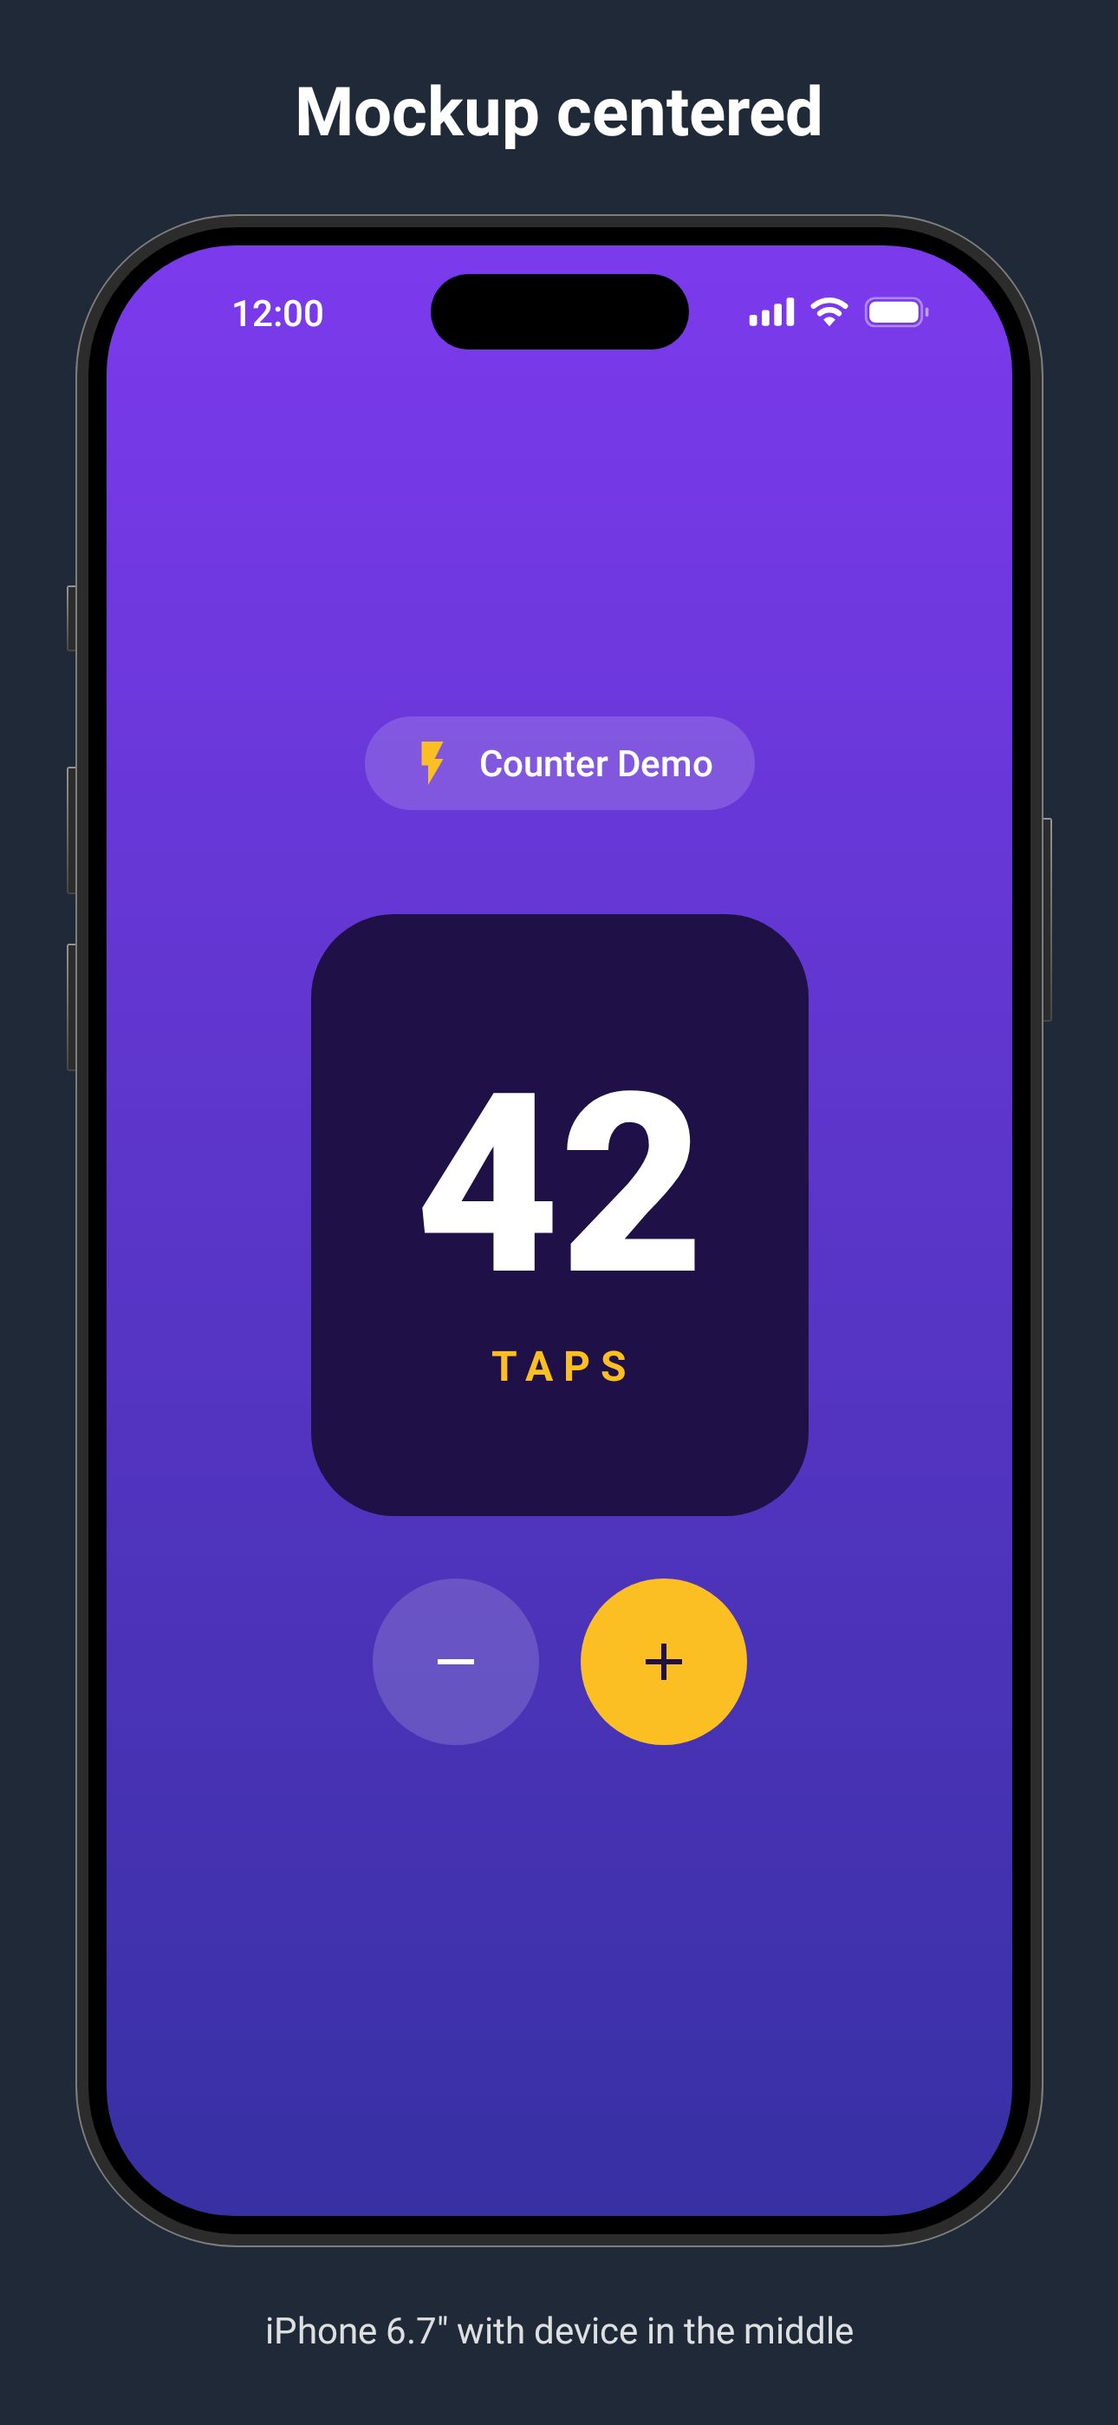
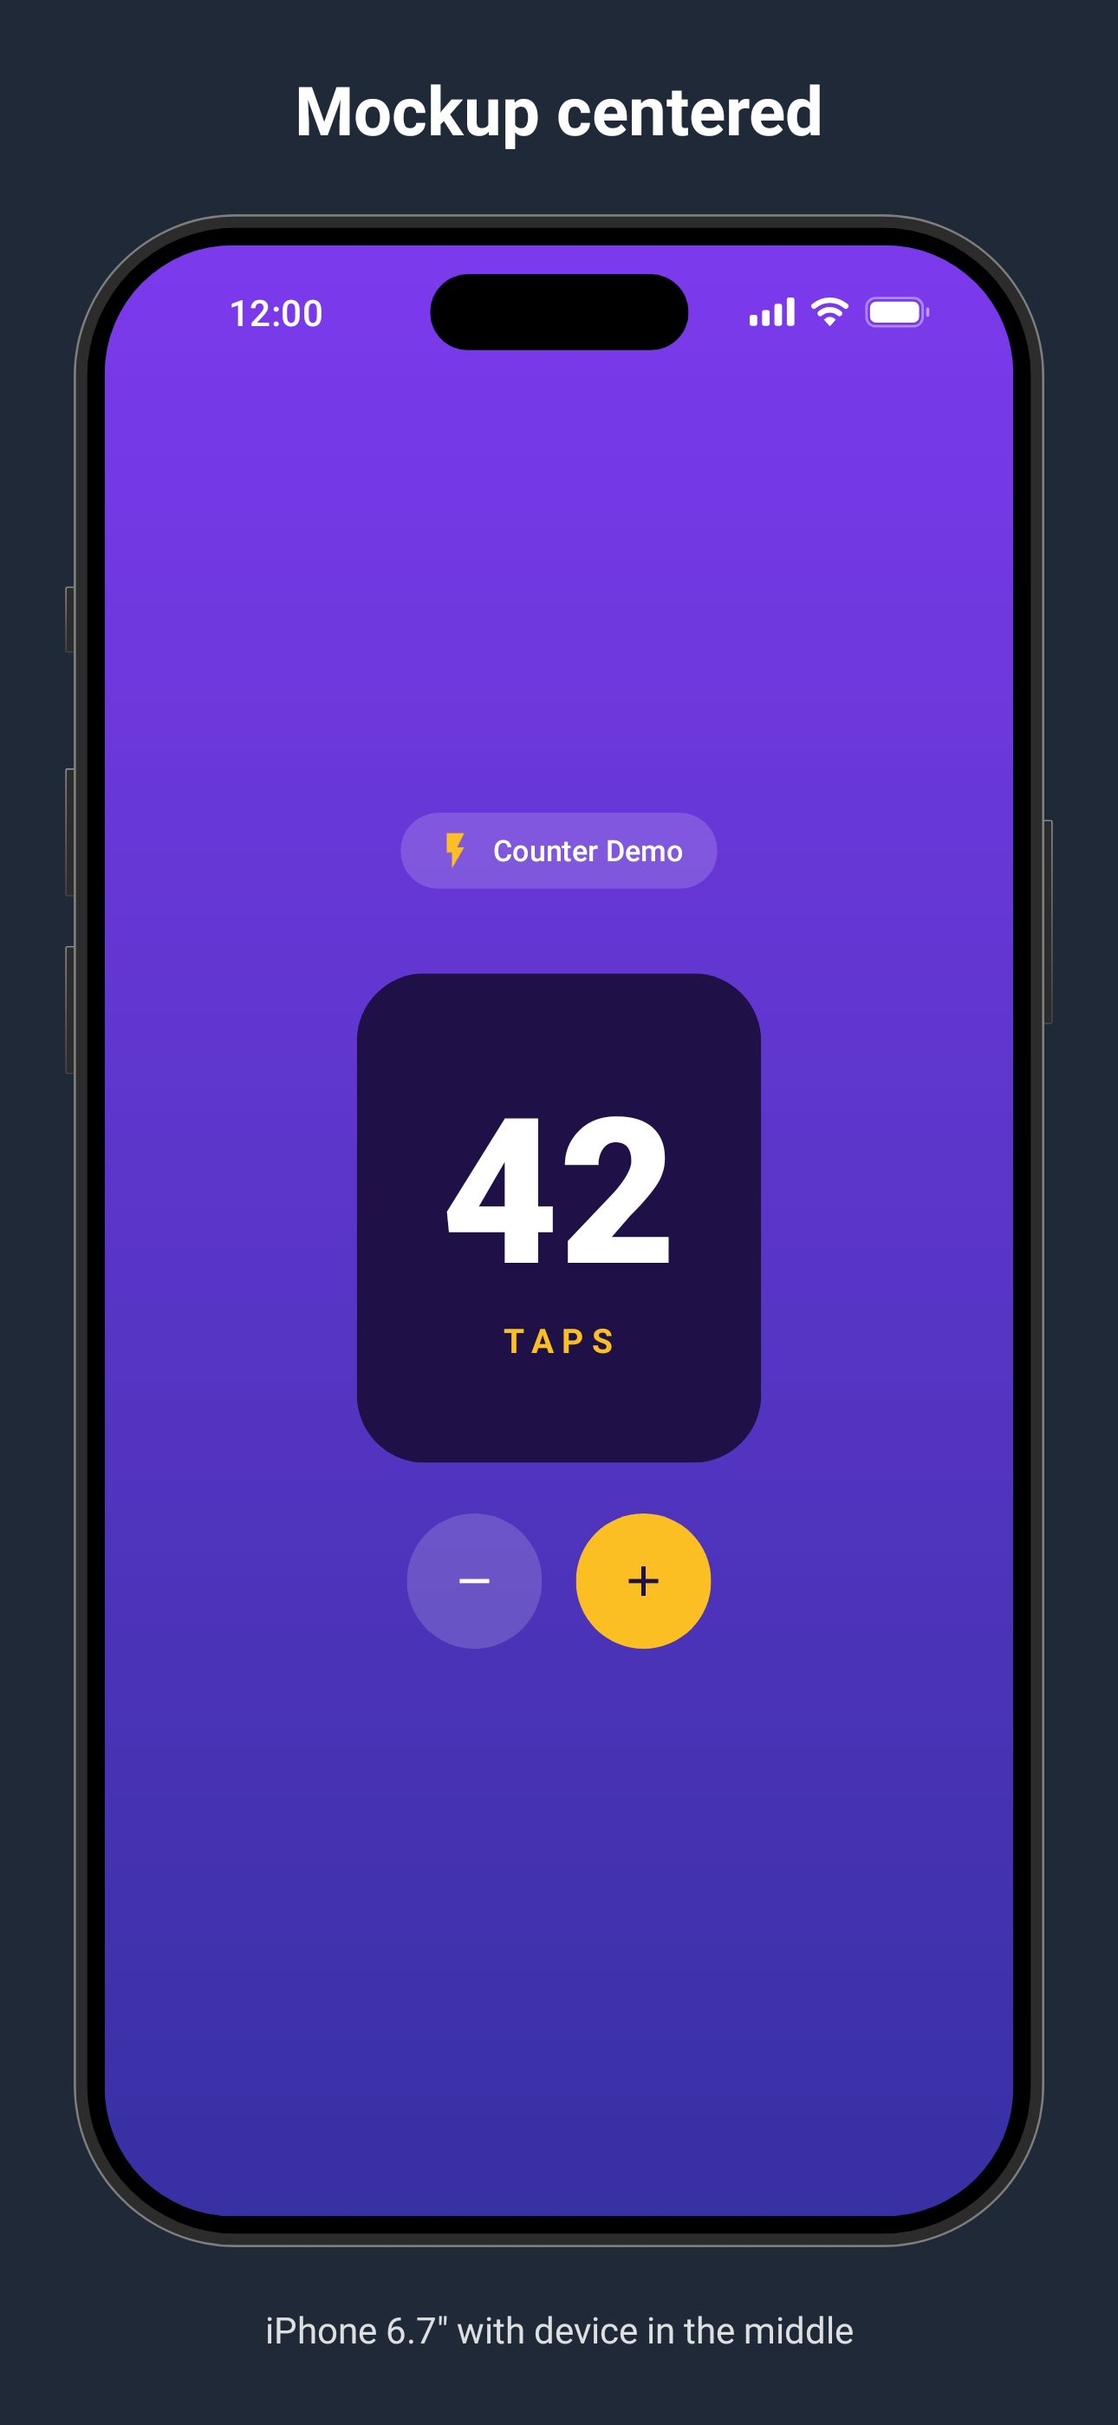
Measure Apple frame content at the slot's logical size (#21)
PhoneFrame has measured its content at a real device's 411x822dp and scaled
the mockup since 1.5.5, and DeviceMockup gives every form factor the same
contract. The Apple frames never got it: AppleFrame and AppleIPadFrame placed
content straight into the bezel's on-canvas footprint, so the banner's padding
and the bezel each took their cut of the slot's width before the app saw any
of it. A 6.5" screenshot measured its app at ~348dp instead of the 428dp its
canvas qualifiers promise — every sp and dp rendered ~20% larger than on a
real device, and width-sensitive layouts moved: the symptom that surfaced this
was a search field's placeholder folding onto two lines in a store listing,
on a screen that renders one line on every real iPhone.

Both frames now do what PhoneFrame does: measure content at the slot's
logical size — 428x926 and 430x932 for the iPhones, 1024x1366 for the iPad —
inside the device environment, and scale the whole mockup into the room the
banner leaves. FormFactor gains an internal logicalSize derived from the same
qualifiers the canvas renders under, so the Configuration, the WindowInfo and
the resource buckets all name one device. AppleFrame takes the slot as a
parameter since the two iPhone shelves differ; the dispatchers pass it.

AppleFrameEnvironmentTest pins the contract for all three slots by asserting
exact equality on both locals a screen can ask. The example screenshots move
[…]

Changed region(s): [[0.2791, 0.28, 0.7442, 0.7468], [0.062, 0.1245, 0.124, 0.9024], [0.2171, 0.1245, 0.2791, 0.1556]]

diff --git a/library/src/main/kotlin/dev/lucianosantos/storescreenshots/frames/AppleFrame.kt b/library/src/main/kotlin/dev/lucianosantos/storescreenshots/frames/AppleFrame.kt
@@ -1,14 +1,17 @@
 package dev.lucianosantos.storescreenshots.frames
 
 import androidx.compose.foundation.layout.ColumnScope
-import androidx.compose.foundation.layout.aspectRatio
-import androidx.compose.foundation.layout.fillMaxHeight
+import androidx.compose.foundation.layout.fillMaxSize
 import androidx.compose.runtime.Composable
 import androidx.compose.ui.Modifier
 import androidx.compose.ui.graphics.Color
 import androidx.compose.ui.unit.dp
 import androidx.compose.ui.unit.sp
+import dev.lucianosantos.storescreenshots.FormFactor
+import dev.lucianosantos.storescreenshots.ProvideDeviceEnvironment
+import dev.lucianosantos.storescreenshots.ScaledMockup
 import dev.lucianosantos.storescreenshots.ScreenshotStyle
+import dev.lucianosantos.storescreenshots.iPhoneBodySize
 
 /** Width-to-height ratio of the default [AppleFrame] device's enclosure. */
 val AppleIPhoneAspectRatio: Float = AppleIPhoneModel.IPhone17ProMax.aspectRatio
@@ -19,6 +22,13 @@ val AppleIPhoneAspectRatio: Float = AppleIPhoneModel.IPhone17ProMax.aspectRatio
  * The mockup is a scale model of [device] as the Simulator draws it — machined rail, black bezel,
  * rounded display, side buttons, Dynamic Island, and an iOS status bar rather than a Material one,
  * which App Store Review guideline 2.3.10 rejects.
+ *
+ * [content] is measured at [formFactor]'s logical size — the dp rectangle the slot's qualifiers
+ * name, 428x926 for the 6.5" slot and 430x932 for the 6.7" — and the whole mockup is then scaled
+ * uniformly into the room the banner leaves, exactly the way [PhoneFrame]'s content is measured at
+ * a real phone's 411x822dp. The screen inside the frame therefore lays out at real-device
+ * proportions however small the banner draws the device, instead of being measured at whatever dp
+ * the bezel's footprint happens to span on the canvas.
  *
  * [device] defaults to the iPhone 17 Pro Max, which is what both App Store iPhone slots are sized
  * for and what a reviewer expects a current submission to depict. [aspectRatio] is the aspect ratio
@@ -31,10 +41,14 @@ fun AppleFrame(
     backgroundColor: Color,
     contentColor: Color = Color.White,
     style: ScreenshotStyle = ScreenshotStyle(),
+    formFactor: FormFactor = FormFactor.AppleIPhone67,
     device: AppleIPhoneModel = AppleIPhoneModel.IPhone17ProMax,
     aspectRatio: Float = device.aspectRatio,
     content: @Composable () -> Unit,
 ) {
+    require(formFactor == FormFactor.AppleIPhone65 || formFactor == FormFactor.AppleIPhone67) {
+        "AppleFrame draws the App Store iPhone slots; $formFactor is not one."
+    }
     FramedLayout(
         title = title,
         description = description,
@@ -48,7 +62,7 @@ fun AppleFrame(
         titleFontSize = 26.sp,
         descriptionFontSize = 14.sp,
         mockup = { externalModifier ->
-            IPhoneMockup(externalModifier, style, aspectRatio, device, content)
+            IPhoneMockup(externalModifier, style, formFactor, device, aspectRatio, content)
         }
     )
 }
@@ -57,20 +71,32 @@ fun AppleFrame(
 private fun ColumnScope.IPhoneMockup(
     externalModifier: Modifier,
     style: ScreenshotStyle,
-    aspectRatio: Float,
+    formFactor: FormFactor,
     device: AppleIPhoneModel,
+    aspectRatio: Float,
     content: @Composable () -> Unit,
 ) {
-    IPhoneBezel(
-        modifier = externalModifier
-            .fillMaxHeight()
-            .aspectRatio(aspectRatio),
-        showStatusBar = style.showStatusBar,
-        clock = style.statusBarClock,
-        statusBarContentDark = style.statusBarContentDark,
-        edgeToEdge = style.edgeToEdge,
-        metrics = device.metrics,
-        elevation = style.mockupElevation,
-        content = content,
-    )
+    // The slot's logical screen, and the body that display sits in at the device's proportions.
+    val logical = formFactor.logicalSize
+    val (bodyWidth, nativeBodyHeight) = iPhoneBodySize(device, logical.width, logical.height)
+    // An overridden ratio reshapes the body it is documented to describe; the default lands on the
+    // derived height exactly.
+    val bodyHeight = if (aspectRatio == device.aspectRatio) {
+        nativeBodyHeight
+    } else {
+        (bodyWidth.value / aspectRatio).dp
+    }
+    ScaledMockup(bodyWidth, bodyHeight, externalModifier) {
+        IPhoneBezel(
+            modifier = Modifier.fillMaxSize(),
+            showStatusBar = style.showStatusBar,
+            clock = style.statusBarClock,
+            statusBarContentDark = style.statusBarContentDark,
+            edgeToEdge = style.edgeToEdge,
+            metrics = device.metrics,
+            elevation = style.mockupElevation,
+        ) {
+            ProvideDeviceEnvironment(logical.width, logical.height, content)
+        }
+    }
 }

diff --git a/library/src/test/kotlin/dev/lucianosantos/storescreenshots/frames/AppleFrameEnvironmentTest.kt b/library/src/test/kotlin/dev/lucianosantos/storescreenshots/frames/AppleFrameEnvironmentTest.kt
@@ -1,0 +1,104 @@
+package dev.lucianosantos.storescreenshots.frames
+
+import androidx.compose.foundation.background
+import androidx.compose.foundation.layout.Box
+import androidx.compose.foundation.layout.fillMaxSize
+import androidx.compose.runtime.Composable
+import androidx.compose.ui.Modifier
+import androidx.compose.ui.graphics.Color
+import androidx.compose.ui.platform.LocalConfiguration
+import androidx.compose.ui.platform.LocalWindowInfo
+import androidx.compose.ui.unit.IntSize
+import dev.lucianosantos.storescreenshots.FormFactor
+import dev.lucianosantos.storescreenshots.StoreScreenshotsTest
+import org.junit.Assert.assertEquals
+import org.junit.Test
+
+/**
+ * What a screen inside an Apple frame believed about the device it was on. Recorded during
+ * composition rather than asserted there, so a failure reports the values instead of dying
+ * inside Compose.
+ */
+private class Seen {
+    var containerSize: IntSize? = null
+    var screenWidthDp: Int? = null
+}
+
+@Composable
+private fun RecordingContent(seen: Seen) {
+    seen.containerSize = LocalWindowInfo.current.containerSize
+    seen.screenWidthDp = LocalConfiguration.current.screenWidthDp
+    Box(Modifier.fillMaxSize().background(Color(0xFF6A1B9A)))
+}
+
+/**
+ * The Apple frames measure content at the slot's logical size — 428x926dp for the 6.5" iPhone,
+ * 1024x1366dp for the 13" iPad — and scale the mockup into the banner, the way [PhoneFrame] has
+ * measured at 411x822dp since 1.5.5.
+ *
+ * They used to place content straight into the bezel's on-canvas footprint instead: the banner's
+ * padding and the bezel each took their share of the slot's width first, and a 6.5" screenshot
+ * measured its app at ~348dp — 80dp narrower than the 428dp the canvas qualifiers promise. Every
+ * sp and dp then rendered ~20% larger than on a real device, and width-sensitive layouts broke:
+ * the first symptom in the wild was a search field's placeholder folding onto two lines in a
+ * store listing, on a screen that renders one line on every real iPhone.
+ *
+ * Asserting exact equality with the slot's logical size, on both locals a screen can ask, pins
+ * the contract: the qualifiers, the Configuration and the WindowInfo all name the same device.
+ */
+class AppleFrameEnvironmentTest {
+
+    class IPhone65 : StoreScreenshotsTest(FormFactor.AppleIPhone65) {
+        @Test
+        fun contentIsMeasuredAtTheSlotsLogicalSize() {
+            val seen = Seen()
+            screenshot(
+                locales = listOf("en-US"),
+                title = "probe",
+                description = "probe",
+                backgroundColor = Color.Black,
+                fileName = "env_iphone65",
+            ) { RecordingContent(seen) }
+            seen.assertLogicalSize(width = 428, height = 926)
+        }
+    }
+
+    class IPhone67 : StoreScreenshotsTest(FormFactor.AppleIPhone67) {
+        @Test
+        fun contentIsMeasuredAtTheSlotsLogicalSize() {
+            val seen = Seen()
+            screenshot(
+                locales = listOf("en-US"),
+                title = "probe",
+                description = "probe",
+                backgroundColor = Color.Black,
+                fileName = "env_iphone67",
+            ) { RecordingContent(seen) }
+            seen.assertLogicalSize(width = 430, height = 932)
+        }
+    }
+
+    class IPad13 : StoreScreenshotsTest(FormFactor.AppleIPad13) {
+        @Test
+        fun contentIsMeasuredAtTheSlotsLogicalSize() {
+            val seen = Seen()
+            screenshot(
+                locales = listOf("en-US"),
+                title = "probe",
+                description = "probe",
+                backgroundColor = Color.Black,
+                fileName = "env_ipad13",
+            ) { RecordingContent(seen) }
+            seen.assertLogicalSize(width = 1024, height = 1366)
+        }
+    }
+}
+
+private fun Seen.assertLogicalSize(width: Int, height: Int) {
+    assertEquals("Configuration.screenWidthDp", width, requireNotNull(screenWidthDp) { "content never composed" })
+    val container = requireNotNull(containerSize) { "content never composed" }
+    // The canvases render at 3x (iPhones) and 2x (iPad); containerSize is in pixels.
+    val density = if (width >= 1024) 2 else 3
+    assertEquals("containerSize.width", width * density, container.width)
+    assertEquals("containerSize.height", height * density, container.height)
+}

diff --git a/library/src/main/kotlin/dev/lucianosantos/storescreenshots/frames/IPadFrame.kt b/library/src/main/kotlin/dev/lucianosantos/storescreenshots/frames/IPadFrame.kt
@@ -1,14 +1,17 @@
 package dev.lucianosantos.storescreenshots.frames
 
 import androidx.compose.foundation.layout.ColumnScope
-import androidx.compose.foundation.layout.aspectRatio
-import androidx.compose.foundation.layout.fillMaxHeight
+import androidx.compose.foundation.layout.fillMaxSize
 import androidx.compose.runtime.Composable
 import androidx.compose.ui.Modifier
 import androidx.compose.ui.graphics.Color
 import androidx.compose.ui.unit.dp
 import androidx.compose.ui.unit.sp
+import dev.lucianosantos.storescreenshots.FormFactor
+import dev.lucianosantos.storescreenshots.ProvideDeviceEnvironment
+import dev.lucianosantos.storescreenshots.ScaledMockup
 import dev.lucianosantos.storescreenshots.ScreenshotStyle
+import dev.lucianosantos.storescreenshots.iPadBodySize
 import dev.lucianosantos.storescreenshots.frames.IPadAir13Metrics as M
 
 /** Width-to-height ratio of a 13-inch iPad's enclosure, measured off the Simulator. */
@@ -56,15 +59,26 @@ private fun ColumnScope.IPadMockup(
     aspectRatio: Float,
     content: @Composable () -> Unit,
 ) {
-    IPadBezel(
-        modifier = externalModifier
-            .fillMaxHeight()
-            .aspectRatio(aspectRatio),
-        showStatusBar = style.showStatusBar,
-        clock = style.statusBarClock,
-        statusBarContentDark = style.statusBarContentDark,
-        edgeToEdge = style.edgeToEdge,
-        elevation = style.mockupElevation,
-        content = content,
-    )
+    // The slot's logical screen (1024x1366, a real 13" iPad's display) and the body around it.
+    // Content is measured there and the mockup scaled into the banner's room, the same contract
+    // as [AppleFrame] and [PhoneFrame] — not at whatever dp the footprint spans on the canvas.
+    val logical = FormFactor.AppleIPad13.logicalSize
+    val (bodyWidth, nativeBodyHeight) = iPadBodySize(logical.width, logical.height)
+    val bodyHeight = if (aspectRatio == AppleIPadAspectRatio) {
+        nativeBodyHeight
+    } else {
+        (bodyWidth.value / aspectRatio).dp
+    }
+    ScaledMockup(bodyWidth, bodyHeight, externalModifier) {
+        IPadBezel(
+            modifier = Modifier.fillMaxSize(),
+            showStatusBar = style.showStatusBar,
+            clock = style.statusBarClock,
+            statusBarContentDark = style.statusBarContentDark,
+            edgeToEdge = style.edgeToEdge,
+            elevation = style.mockupElevation,
+        ) {
+            ProvideDeviceEnvironment(logical.width, logical.height, content)
+        }
+    }
 }

diff --git a/library/src/main/kotlin/dev/lucianosantos/storescreenshots/DeviceMockup.kt b/library/src/main/kotlin/dev/lucianosantos/storescreenshots/DeviceMockup.kt
@@ -99,14 +99,14 @@ private fun orientSize(portraitWidth: Dp, portraitHeight: Dp, orientation: Mocku
  * bezel on all four sides, at [device]'s measured proportions. [IPhoneBezel] is sized by its body,
  * not its screen, so the footprint has to be grown before it is laid out.
  */
-private fun iPhoneBodySize(device: AppleIPhoneModel, screenWidth: Dp, screenHeight: Dp): Pair<Dp, Dp> {
+internal fun iPhoneBodySize(device: AppleIPhoneModel, screenWidth: Dp, screenHeight: Dp): Pair<Dp, Dp> {
     val m = device.metrics
     val bezel = m.Bezel * (screenWidth.value / m.ScreenWidth)
     return (screenWidth + (bezel * 2).dp) to (screenHeight + (bezel * 2).dp)
 }
 
 /** The same, for an iPad — see [IPadAir13Metrics]. */
-private fun iPadBodySize(screenWidth: Dp, screenHeight: Dp): Pair<Dp, Dp> {
+internal fun iPadBodySize(screenWidth: Dp, screenHeight: Dp): Pair<Dp, Dp> {
     val bezel = IPadAir13Metrics.Bezel * (screenWidth.value / IPadAir13Metrics.ScreenWidth)
     return (screenWidth + (bezel * 2).dp) to (screenHeight + (bezel * 2).dp)
 }
@@ -324,7 +324,7 @@ private fun watchSpec(shape: WatchShape): WatchSpec = when (shape) {
  * lays the device out at, so `MockupOrientation.Landscape` content also reads landscape.
  */
 @Composable
-private fun ProvideDeviceEnvironment(
+internal fun ProvideDeviceEnvironment(
     widthDp: Dp,
     heightDp: Dp,
     content: @Composable () -> Unit,
@@ -372,7 +372,7 @@ private fun ProvideDeviceEnvironment(
  * footprint directly, which would shrink the box but not the text inside it.
  */
 @Composable
-private fun ScaledMockup(
+internal fun ScaledMockup(
     nativeWidth: Dp,
     nativeHeight: Dp,
     modifier: Modifier,

diff --git a/library/src/main/kotlin/dev/lucianosantos/storescreenshots/FormFactor.kt b/library/src/main/kotlin/dev/lucianosantos/storescreenshots/FormFactor.kt
@@ -1,5 +1,8 @@
 package dev.lucianosantos.storescreenshots
 
+import androidx.compose.ui.unit.DpSize
+import androidx.compose.ui.unit.dp
+
 import kotlin.math.abs
 import kotlin.math.roundToInt
 
@@ -142,6 +145,22 @@ enum class FormFactor(
      * copy could only ever drift out of step with them.
      */
     val widthPx: Int get() = qualifiers.toPixelSize().first
+
+    /**
+     * The logical size named by [qualifiers] — the dp rectangle a screen inside this form factor's
+     * device is measured at, and the size [androidx.compose.ui.platform.LocalConfiguration] and
+     * [androidx.compose.ui.platform.LocalWindowInfo] report to it.
+     */
+    internal val logicalSize: DpSize
+        get() {
+            val width = requireNotNull(Regex("""w(\d+)dp""").find(qualifiers)?.groupValues?.get(1)) {
+                "$qualifiers names no width"
+            }
+            val height = requireNotNull(Regex("""h(\d+)dp""").find(qualifiers)?.groupValues?.get(1)) {
+                "$qualifiers names no height"
+            }
+            return DpSize(width.toInt().dp, height.toInt().dp)
+        }
 
     /** Height in pixels of the PNG this form factor produces. See [widthPx]. */
     val heightPx: Int get() = qualifiers.toPixelSize().second

diff --git a/library/src/main/kotlin/dev/lucianosantos/storescreenshots/ScreenshotRule.kt b/library/src/main/kotlin/dev/lucianosantos/storescreenshots/ScreenshotRule.kt
@@ -358,6 +358,7 @@ class ScreenshotRule(
                 FormFactor.AppleIPhone67,
                 FormFactor.AppleIPhone65 -> AppleFrame(
                     title, description, backgroundColor, contentColor, style,
+                    formFactor = formFactor,
                     device = AppleIPhoneModel.IPhone17ProMax,
                     content = content,
                 )

diff --git a/library/src/main/kotlin/dev/lucianosantos/storescreenshots/ScreenshotPreview.kt b/library/src/main/kotlin/dev/lucianosantos/storescreenshots/ScreenshotPreview.kt
@@ -76,6 +76,7 @@ fun ScreenshotPreview(
             FormFactor.AppleIPhone67,
             FormFactor.AppleIPhone65 -> AppleFrame(
                 title, description, backgroundColor, contentColor, style,
+                formFactor = formFactor,
                 device = AppleIPhoneModel.IPhone17ProMax,
                 content = content,
             )
